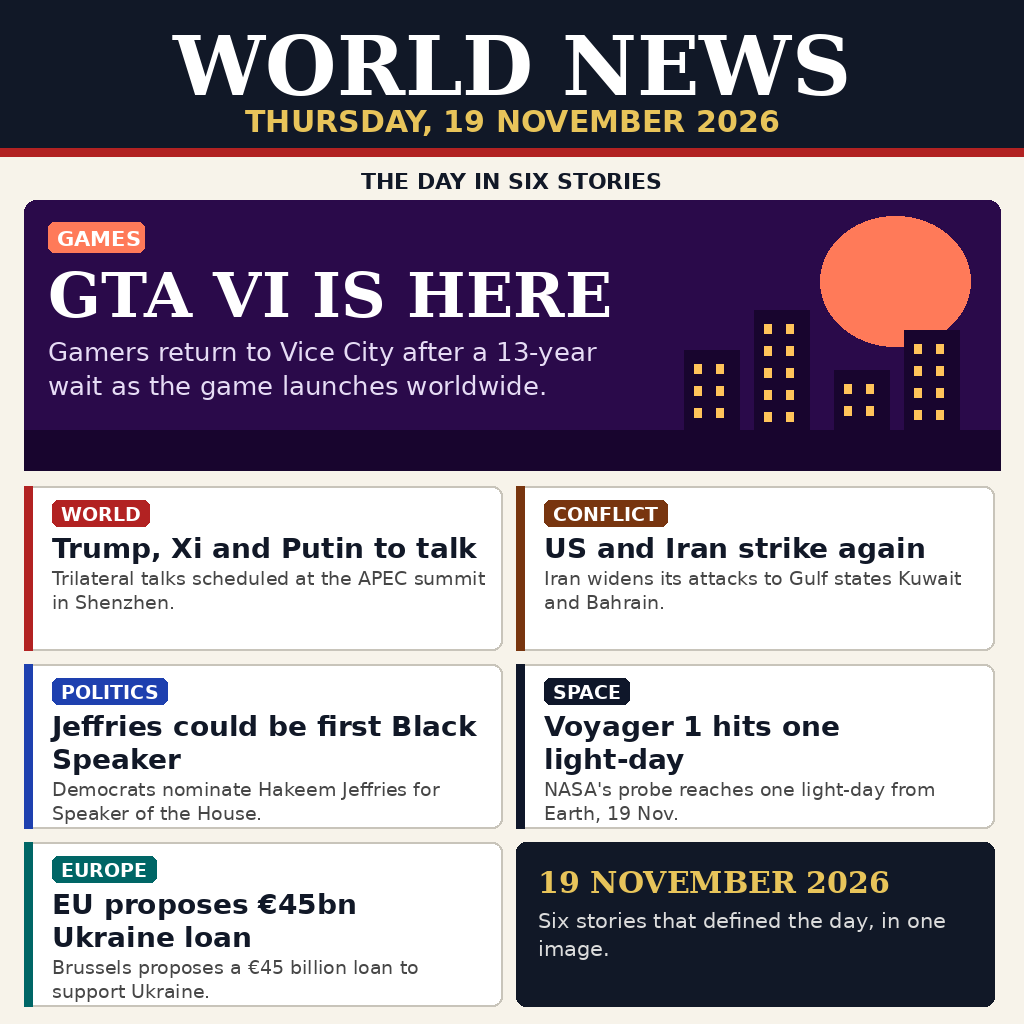
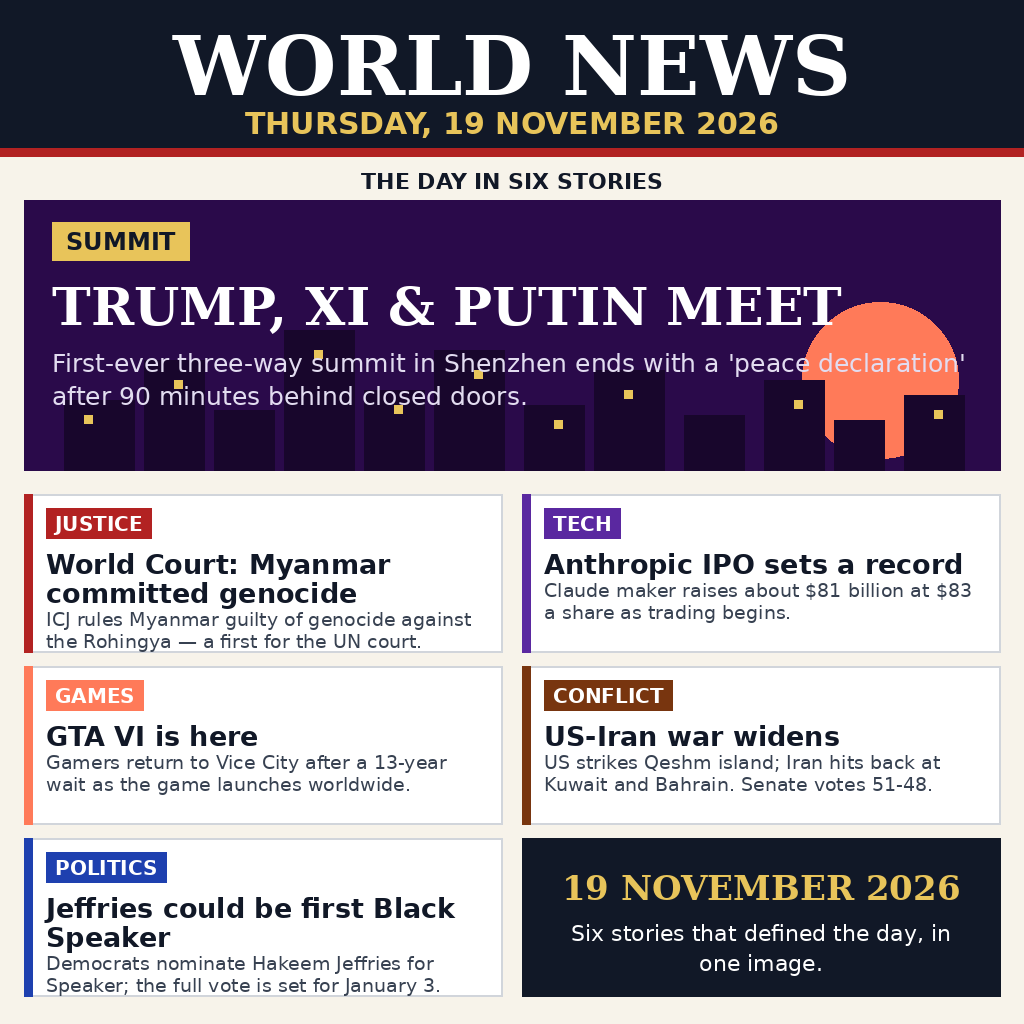
News image 19 November 2026 refresh: six-story infographic (v2)

diff --git a/README.md b/README.md
@@ -4,7 +4,7 @@
 [![rank](https://make.fun/badge/news-image-20261119/Ridlo12/news-image-20261119/rank.svg)](https://make.fun/bounty/news-image-20261119/leaderboard?utm_source=github&utm_medium=readme&utm_campaign=news-image-20261119)
 [![reward](https://make.fun/badge/news-image-20261119/Ridlo12/news-image-20261119/reward.svg)](https://make.fun/bounty/news-image-20261119?utm_source=github&utm_medium=readme&utm_campaign=news-image-20261119)
 
-A program that writes one image summing up the world's news of Thursday 19 November 2026: GTA VI launches worldwide, Trump, Xi and Putin are set for trilateral talks at the APEC summit in Shenzhen, the US and Iran strike each other again, Democrats nominate Hakeem Jeffries, NASA's Voyager 1 reaches one light-day from Earth, and the EU proposes a €45 billion loan for Ukraine.
+A program that writes one image summing up the world's news of Thursday 19 November 2026 — refreshed with the full day's six biggest stories: the first-ever Trump–Xi–Putin three-way summit in Shenzhen, the World Court ruling that Myanmar committed genocide against the Rohingya, Anthropic's record-setting IPO, GTA VI launching worldwide, the widening US–Iran war, and Democrats nominating Hakeem Jeffries for Speaker of the House.
 
 ## Run it
 
